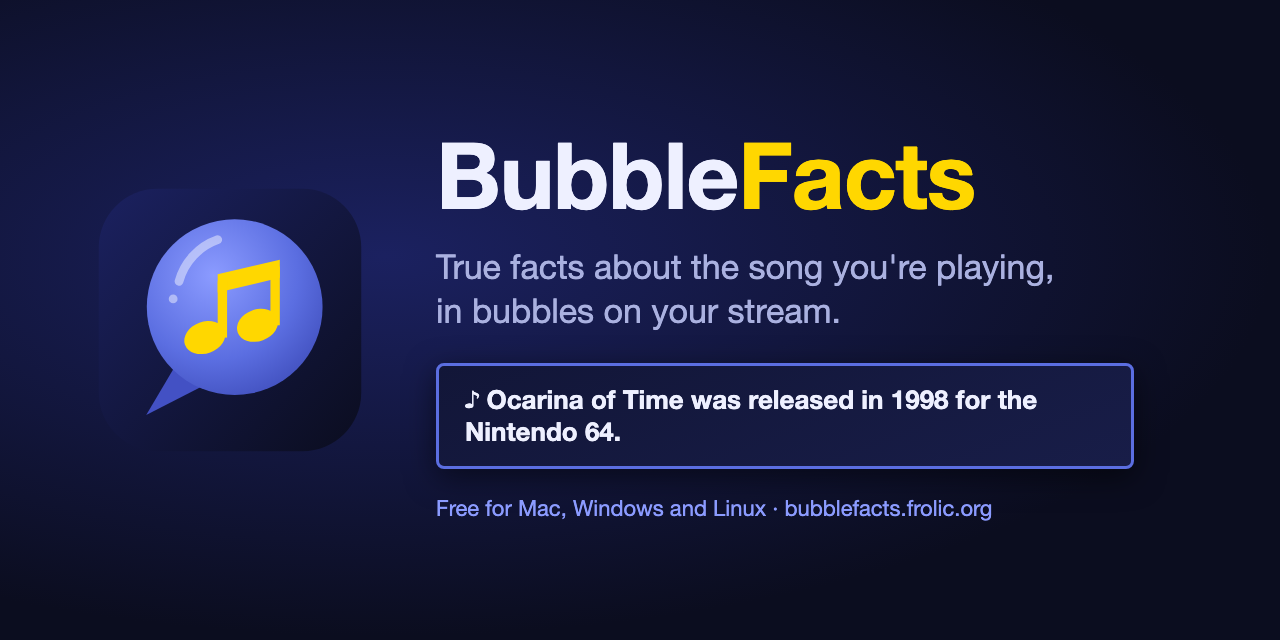
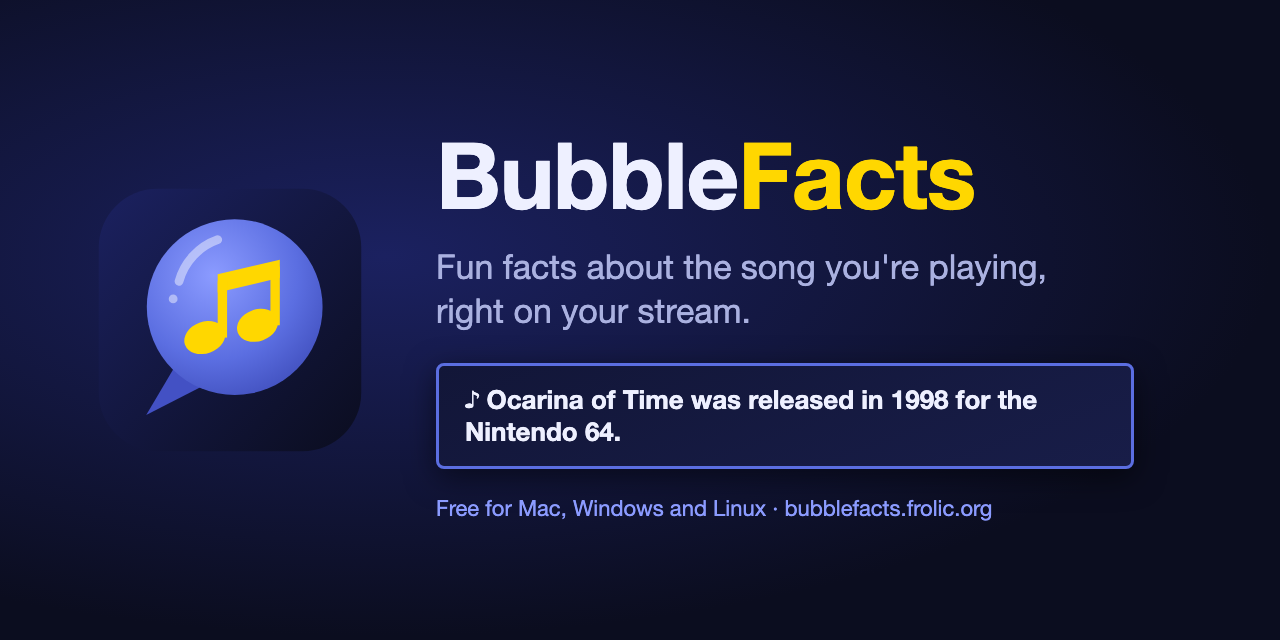
Headline: Fun facts about the song you're playing, right on your stream

Changed region(s): [[0.3438, 0.4062, 0.8438, 0.5312]]

diff --git a/site/index.html b/site/index.html
@@ -4,7 +4,7 @@
   <meta charset="utf-8">
   <meta name="viewport" content="width=device-width, initial-scale=1">
   <title>BubbleFacts: song fact bubbles for music streamers</title>
-  <meta name="description" content="Song facts that pop up right on your stream, checked against Wikipedia. A free app for musicians who stream with OBS and StreamerSongList.">
+  <meta name="description" content="Fun facts about the song you're playing, right on your stream, checked against Wikipedia. A free app for musicians who stream with OBS and StreamerSongList.">
   <link rel="canonical" href="https://bubblefacts.frolic.org/">
   <link rel="icon" href="assets/favicon.svg" type="image/svg+xml">
   <meta name="theme-color" content="#07071a">
@@ -12,7 +12,7 @@
   <meta property="og:type" content="website">
   <meta property="og:site_name" content="BubbleFacts">
   <meta property="og:title" content="BubbleFacts: song fact bubbles for music streamers">
-  <meta property="og:description" content="Song facts that pop up right on your stream, checked against Wikipedia. A free app for musicians who stream with OBS and StreamerSongList.">
+  <meta property="og:description" content="Fun facts about the song you're playing, right on your stream, checked against Wikipedia. A free app for musicians who stream with OBS and StreamerSongList.">
   <meta property="og:url" content="https://bubblefacts.frolic.org/">
   <meta property="og:image" content="https://bubblefacts.frolic.org/assets/social-preview.png">
   <meta property="og:image:width" content="1280">
@@ -20,7 +20,7 @@
   <meta property="og:image:alt" content="Three game-style fact boxes about the Song of Storms and a gold Now Playing banner.">
   <meta name="twitter:card" content="summary_large_image">
   <meta name="twitter:title" content="BubbleFacts: song fact bubbles for music streamers">
-  <meta name="twitter:description" content="Song facts that pop up right on your stream, checked against Wikipedia. A free app for musicians who stream with OBS and StreamerSongList.">
+  <meta name="twitter:description" content="Fun facts about the song you're playing, right on your stream, checked against Wikipedia. A free app for musicians who stream with OBS and StreamerSongList.">
   <meta name="twitter:image" content="https://bubblefacts.frolic.org/assets/social-preview.png">
   <meta name="twitter:image:alt" content="Three game-style fact boxes about the Song of Storms and a gold Now Playing banner.">
 
@@ -50,7 +50,7 @@
       <div class="wrap hero-grid">
         <div>
           <p class="eyebrow">BubbleFacts, a free app for music streamers</p>
-          <h1 id="hero-title">Song facts that pop up right on your stream.</h1>
+          <h1 id="hero-title">Fun facts about the song you're playing, right on your stream.</h1>
           <p class="pitch">BubbleFacts watches your StreamerSongList requests and shows short, Wikipedia-checked facts in game-inspired bubbles while you play.</p>
 
           <div class="download" id="download">

diff --git a/README.md b/README.md
@@ -4,7 +4,7 @@
 [![Release](https://img.shields.io/github/v/release/frolicchris/bubblefacts?include_prereleases)](https://github.com/frolicchris/bubblefacts/releases)
 [![License: MIT](https://img.shields.io/badge/license-MIT-blue)](LICENSE)
 
-**Song facts that pop up right on your stream.**
+**Fun facts about the song you're playing, right on your stream.**
 
 BubbleFacts watches your [StreamerSongList](https://streamersonglist.com)
 requests and shows short, Wikipedia-checked facts in game-inspired bubbles in
